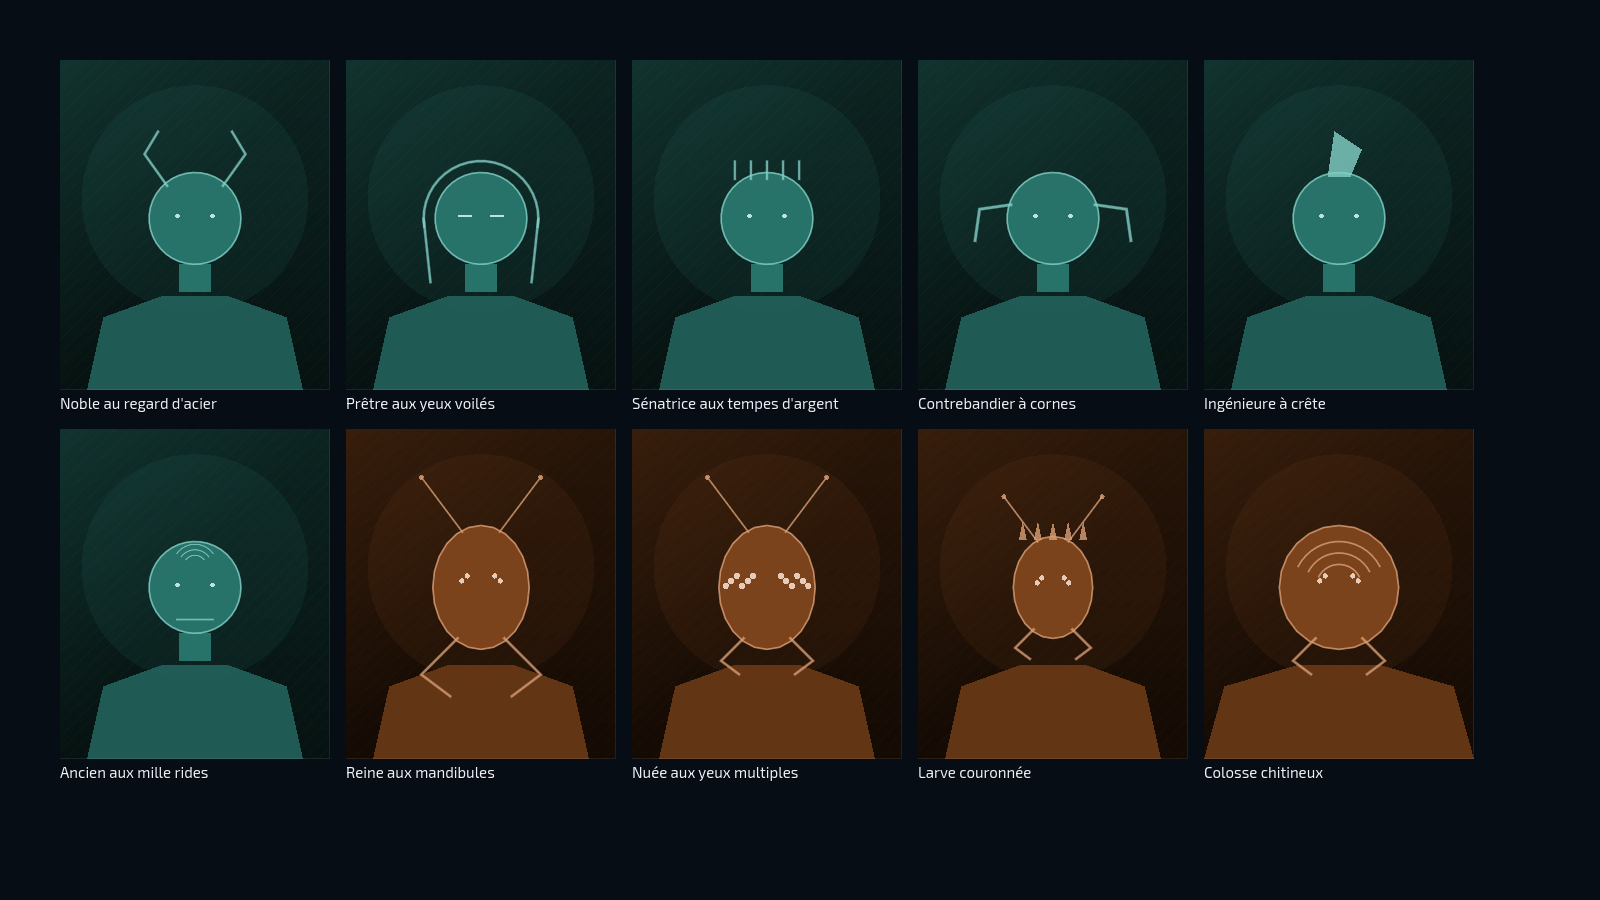
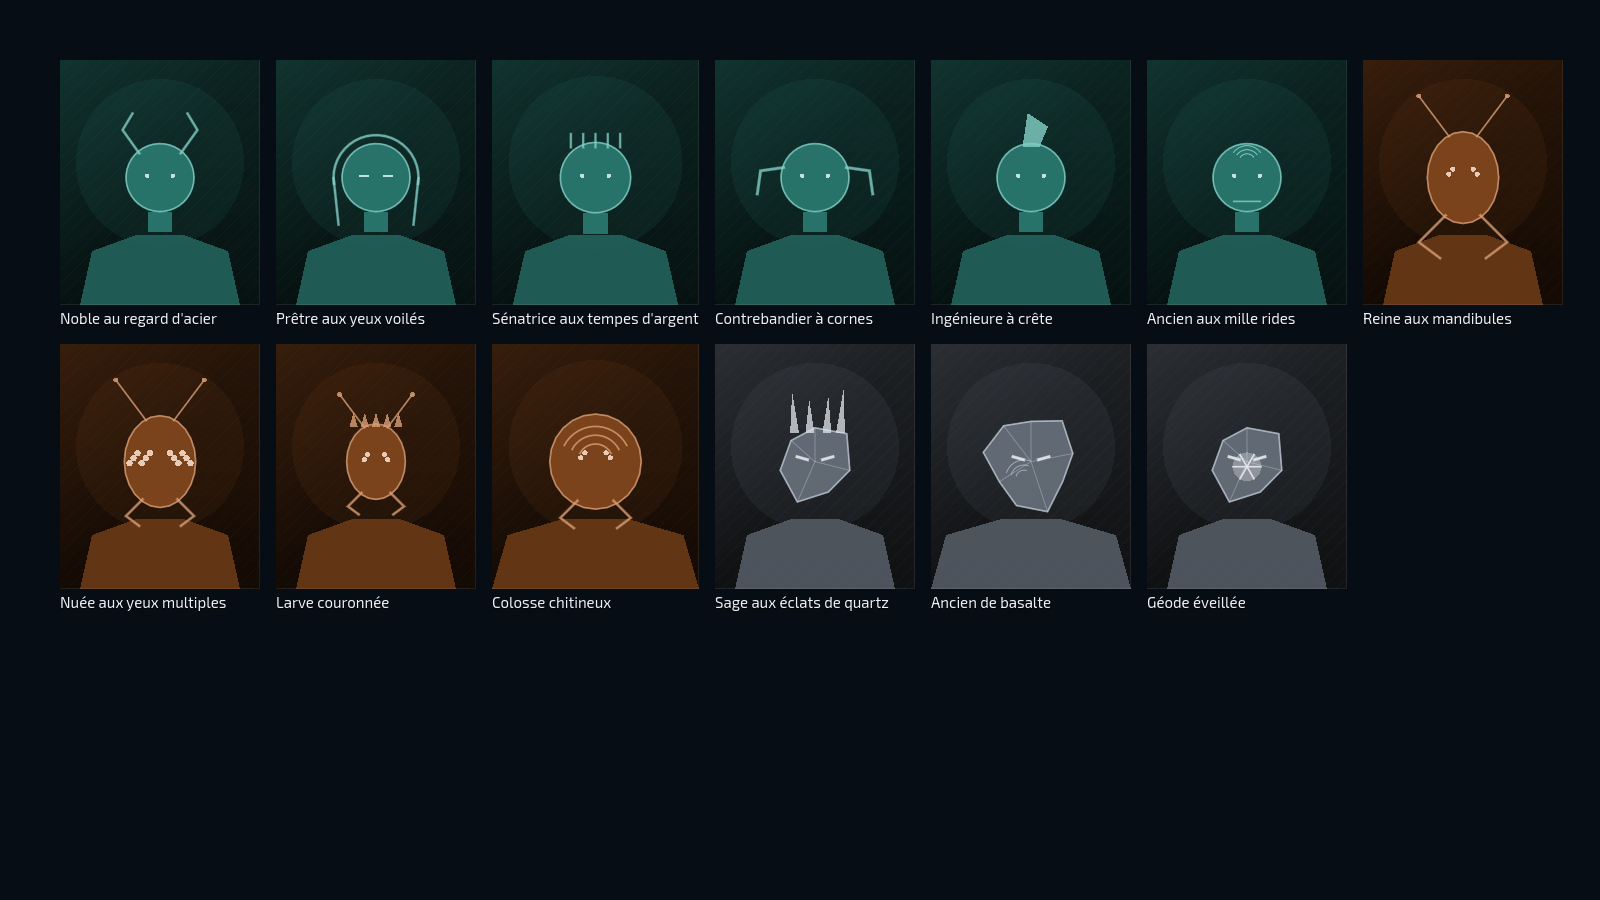
Éditeur d'espèces, lot 3 : archétype Lithoïde
- Nouvelle brique d'archétype : les lithoïdes extraient ce que les autres
  cultivent (la nourriture des habitants devient des matériaux), mangent
  1 matériau par habitant et par mois (famine sans matériaux), grandissent
  25 % moins vite et habitent les mondes stériles à 50 %.
- Champs de faction diet et hab_extra (Economy, FactionTraits, famine).
- IA : des mines plutôt que des fermes quand un lithoïde manque.
- Trois portraits provisoires lithoïdes.
- Tests, banc 24 parties (dans la cible), README.

Claude-Session: https://claude.ai/code/session_011WbKxBQb1tBZbJSbgbF3AD

diff --git a/README.md b/README.md
@@ -452,6 +452,12 @@ Sources consultées pour la mise en page : la création de civilisation de Galac
 
 ![Éditeur de peuples, onglet Traits](docs/apercu-editeur-peuples.png)
 
+### Lot 3 : nouvelles briques, une à la fois
+
+Chaque nouvelle brique apporte une vraie mécanique et passe au banc de 24 parties.
+
+- **Archétype Lithoïde** : des corps de pierre et de cristal. Ce que les autres cultivent, ils l'extraient (la nourriture produite par les habitants devient des matériaux) et chacun mange 1 matériau par mois au lieu de nourriture ; sans matériaux, c'est la famine (`diet`). Population 25 % plus lente. Les mondes stériles leur sont habitables à 50 % (`hab_extra`). L'IA bâtit des mines plutôt que des fermes quand elle manque. Inspiration : les Lithoïdes de Stellaris, qui mangent des minéraux, grandissent 25 % moins vite et gagnent en habitabilité (journal de développement Paradox n° 157 et fils de joueurs, vus en extraits de recherche seulement : le forum Paradox refuse l'accès automatique). Banc (24 parties, 25 ans, IA Normale, « Concile de Basalte » : lithoïde, république, raison, filons, érudits + garnisons tenaces) : 4 morts dont 3 avant l'an 10, 21,4 systèmes à l'an 10, 17 % de victoires, dans la cible de l'étude d'équilibrage.
+
 ## Modèles 3D des vaisseaux
 
 Les vaisseaux ont un modèle 3D source (glTF), produit à partir d'un concept Midjourney par Tripo, puis cuit dans Blender par `tools/vaisseaux/cuire_vaisseau.py` et contrôlé par `tools/vaisseaux/apercu_vaisseau.gd`. `tools/vaisseaux/sprites_vaisseau.gd` en tire des sprites vus de dessus (`assets/ships/`), que la vue de replay et le Chantier affichent teints aux couleurs de l'empire (`ShipArt`) ; sans sprite, ils gardent leur dessin stylisé. Une version allégée du modèle (`tools/vaisseaux/alleger_vaisseau.py`) sert à la cinématique 3D des batailles, ouverte depuis la vue de replay (`BattleCinematic`). Pour l'instant, seules les frégates Ossarane et Kh'thari en ont un. Règles (nommage, axes, budgets, cartes, masque d'empire, points d'attache) et commandes : [docs/vaisseaux-3d.md](docs/vaisseaux-3d.md).
